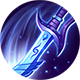
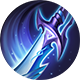
v1.52.1.42

diff --git a/jvm/src/main/java/apc/eagle/tdr/SkinEnable.kt b/jvm/src/main/java/apc/eagle/tdr/SkinEnable.kt
@@ -1,0 +1,109 @@
+package apc.eagle.tdr
+
+import apc.eagle.common.toHero
+import com.alibaba.excel.annotation.ExcelProperty
+import com.alibaba.excel.context.AnalysisContext
+import com.alibaba.excel.metadata.BaseRowModel
+
+internal class SkinEnable : BaseRowModel() {
+    @Transient
+    @ExcelProperty(index = 1)
+    var hero = 0
+
+    @ExcelProperty(index = 2)
+    var heroName = ""
+
+    @Transient
+    @ExcelProperty(index = 3)
+    var index = 0
+
+    @ExcelProperty(index = 4)
+    var name = ""
+
+    @ExcelProperty(index = 6)
+    var limited = ""
+
+    @Transient
+    var limitedIndex = 0
+
+    @ExcelProperty(index = 8)
+    var tag = ""
+
+    @Transient
+    var tagIndex = 0
+
+    @ExcelProperty(index = 10)
+    var source = ""
+
+    @ExcelProperty(index = 11)
+    var quality = ""
+
+    @Transient
+    var qualityIndex = 0
+
+    @ExcelProperty(index = 17)
+    var canBuy = ""
+
+    @ExcelProperty(index = 18)
+    var price = 0
+
+    @Transient
+    @ExcelProperty(index = 37)
+    var enable = 0
+
+    override fun toString() =
+        "$heroName\t$name\t$quality\t${if (limitedIndex == -1) "限定" else ""}\t$tag\t$price\t$source"
+
+    companion object : Table<SkinEnable>() {
+        override val file = "英雄皮肤上下架表"
+        override val table = 6
+        private val all = mutableListOf<SkinEnable>()
+        override fun invoke(row: SkinEnable, context: AnalysisContext) {
+            if (row.hero in HeroEnable.ids && row.enable > 0 && row.index > 0) {
+                @Suppress("SpellCheckingInspection")
+                row.qualityIndex = when {
+                    "内测专属" in row.source -> 1
+                    "label_rongyaodiancang" in row.tag -> {
+                        row.tag = "荣耀典藏"
+                        row.price = 14440
+                        row.limited = ""
+                        row.source = ""
+                        2
+                    }
+                    row.quality == "S+" -> 3
+                    row.price >= 2888 -> 4
+                    row.quality == "S" -> 5
+                    row.quality == "A" -> 6
+                    row.quality == "B" -> 7
+                    else -> 0
+                }
+                if ("label_limited_zhandui" in row.tag) {
+                    row.tag = "战队赛限定"
+                    row.limited = ""
+                    row.source = ""
+                }
+                if ("贵族" in row.source) row.limited = ""
+                if (row.canBuy == "是") row.limited = ""
+                if (row.limited == "是") row.limitedIndex = -1
+                if (row.tag.isNotEmpty()) row.tagIndex = -1
+                all += row
+            }
+        }
+
+        override fun doAfterAllAnalysed(context: AnalysisContext) {
+            all.sortedWith(Comparator { a, b ->
+                val orderA = a.hero.toHero()!!.order
+                val orderB = b.hero.toHero()!!.order
+                when {
+                    orderA != orderB -> orderA - orderB
+                    a.hero != b.hero -> a.hero - b.hero
+                    a.qualityIndex != b.qualityIndex -> a.qualityIndex - b.qualityIndex
+                    a.limitedIndex != b.limitedIndex -> a.limitedIndex - b.limitedIndex
+                    a.tagIndex != b.tagIndex -> a.tagIndex - b.tagIndex
+                    a.price != b.price -> b.price - a.price
+                    else -> b.index - a.index
+                }
+            }).forEach(::println)
+        }
+    }
+}

diff --git a/jvm/src/main/java/apc/eagle/tdr/Equipment.kt b/jvm/src/main/java/apc/eagle/tdr/Equipment.kt
@@ -30,44 +30,44 @@ class Equipment : BaseRowModel() {
     @ExcelProperty(index = 10)
     var level = 0
 
-    @ExcelProperty(index = 19)
+    @ExcelProperty(index = 20)
     var price = 0
 
-    @ExcelProperty(index = 21)
+    @ExcelProperty(index = 22)
     var top = 0
 
-    @ExcelProperty(index = 22)
+    @ExcelProperty(index = 23)
     @Transient
     var disable = 0
 
-    @ExcelProperty(index = 30)
+    @ExcelProperty(index = 34)
     var attack = 0
 
-    @ExcelProperty(index = 31)
+    @ExcelProperty(index = 35)
     var haste = 0
 
-    @ExcelProperty(index = 32)
+    @ExcelProperty(index = 36)
     var critical = 0
 
-    @ExcelProperty(index = 34)
+    @ExcelProperty(index = 38)
     var magic = 0
 
-    @ExcelProperty(index = 35)
+    @ExcelProperty(index = 39)
     var cdr = 0
 
-    @ExcelProperty(index = 39)
+    @ExcelProperty(index = 43)
     var defense = 0
 
-    @ExcelProperty(index = 40)
+    @ExcelProperty(index = 44)
     var magicDefense = 0
 
-    @ExcelProperty(index = 41)
+    @ExcelProperty(index = 45)
     var hp = 0
 
-    @ExcelProperty(index = 42)
+    @ExcelProperty(index = 46)
     var regen = 0
 
-    @ExcelProperty(index = 43)
+    @ExcelProperty(index = 47)
     var moveSpeed = 0
 
     override fun toString() = Json.stringify(serializer, this)
@@ -111,8 +111,9 @@ class Equipment : BaseRowModel() {
 
         @Suppress("unused")
         private fun copyResources() {
-            val icon = Paths.get("D:\\Kings\\trunk0\\UI\\4_System\\BattleEquip")
-            val res = Paths.get("resources/equip")
+            val icon =
+                Paths.get("D:\\Kings\\trunk\\Project\\Assets\\Art_Resources\\UI\\4_System\\BattleEquip")
+            val res = Paths.get("src/main/resources/equip")
             res.toFile().mkdirs()
             Equip.idMap.keys.forEach { icon + "$it.png" copyTo res }
         }

diff --git a/common/src/main/java/apc/eagle/common/hero/Hero174.kt b/common/src/main/java/apc/eagle/common/hero/Hero174.kt
@@ -5,7 +5,7 @@ import apc.eagle.common.*
 @Suppress("unused")
 class Hero174 : HeroType() { // 虞姬
 
-    override val preferredIcon = 301742
+    override val preferredIcon = 301744
     override fun tempHaste(level: Int) = if (level >= 4) 200 + level / 4 * 100 else 0
     override val tempHasteName get() = abilities[2].name
     override val learn = intArrayOf(
@@ -26,7 +26,12 @@ class Hero174 : HeroType() { // 虞姬
         actor.heroRage += 25
         if (actor.heroRage >= 100) {
             actor.heroRage -= 100
-            actor.battle.events += Event(target.battle.time + GameData.MS_FRAME * 7, target, actor, ExtraArrow)
+            actor.battle.events += Event(
+                target.battle.time + GameData.MS_FRAME * 7,
+                target,
+                actor,
+                ExtraArrow
+            )
         }
     }
 }

diff --git a/jvm/src/main/java/apc/eagle/tdr/SkinInfo.kt b/jvm/src/main/java/apc/eagle/tdr/SkinInfo.kt
@@ -72,12 +72,11 @@ class SkinInfo : BaseRowModel() {
         private fun copyResources() {
             val icon =
                 Paths.get("D:\\Kings\\trunk\\Project\\Assets\\Art_Resources\\UI\\5_Dynamic\\Icon")
-//            val res = Paths.get("src/main/resources/head")
-            val res = Paths.get("D:\\icon")
+            val res = Paths.get("src/main/resources/head")
             res.toFile().mkdirs()
             HeroType.idMap.values.forEach {
-                (icon + "${it.skins[0].icon}.png").copyTo(res, "${it.id}.png")
-//                icon + "${it.preferredIcon}.png" copyTo res
+                //                (icon + "${it.skins[0].icon}.png").copyTo(res, "${it.id}.png")
+                icon + "${it.preferredIcon}.png" copyTo res
             }
         }
     }

diff --git a/jvm/src/main/java/apc/eagle/fx/App.kt b/jvm/src/main/java/apc/eagle/fx/App.kt
@@ -17,7 +17,7 @@ fun main(args: Array<String>) {
 class App : Application() {
     override fun start(primaryStage: Stage) {
         primaryStage.initStyle(StageStyle.UTILITY)
-        primaryStage.title = "鹰眼神射 - Res $RES_VERSION - alpha01"
+        primaryStage.title = "鹰眼神射 - Res $RES_VERSION - beta"
         primaryStage.scene = Scene(SolutionPane())
         primaryStage.show()
     }

diff --git a/jvm/src/main/java/apc/eagle/tdr/Tdr.kt b/jvm/src/main/java/apc/eagle/tdr/Tdr.kt
@@ -21,6 +21,7 @@ object Tdr {
         DefaultRuneConfig.load()
         HeroEnable.load()
         HeroInfo.load()
+        SkinEnable.load()
         SkinInfo.load()
         DefaultEquipments.load()
         ProEquipments.load()

diff --git a/common/src/main/java/apc/eagle/common/GameData.kt b/common/src/main/java/apc/eagle/common/GameData.kt
@@ -1,6 +1,6 @@
 package apc.eagle.common
 
 object GameData {
-    const val RES_VERSION = "v1.46.1.1"
+    const val RES_VERSION = "v1.52.1.42"
     const val MS_FRAME = 66
 }
